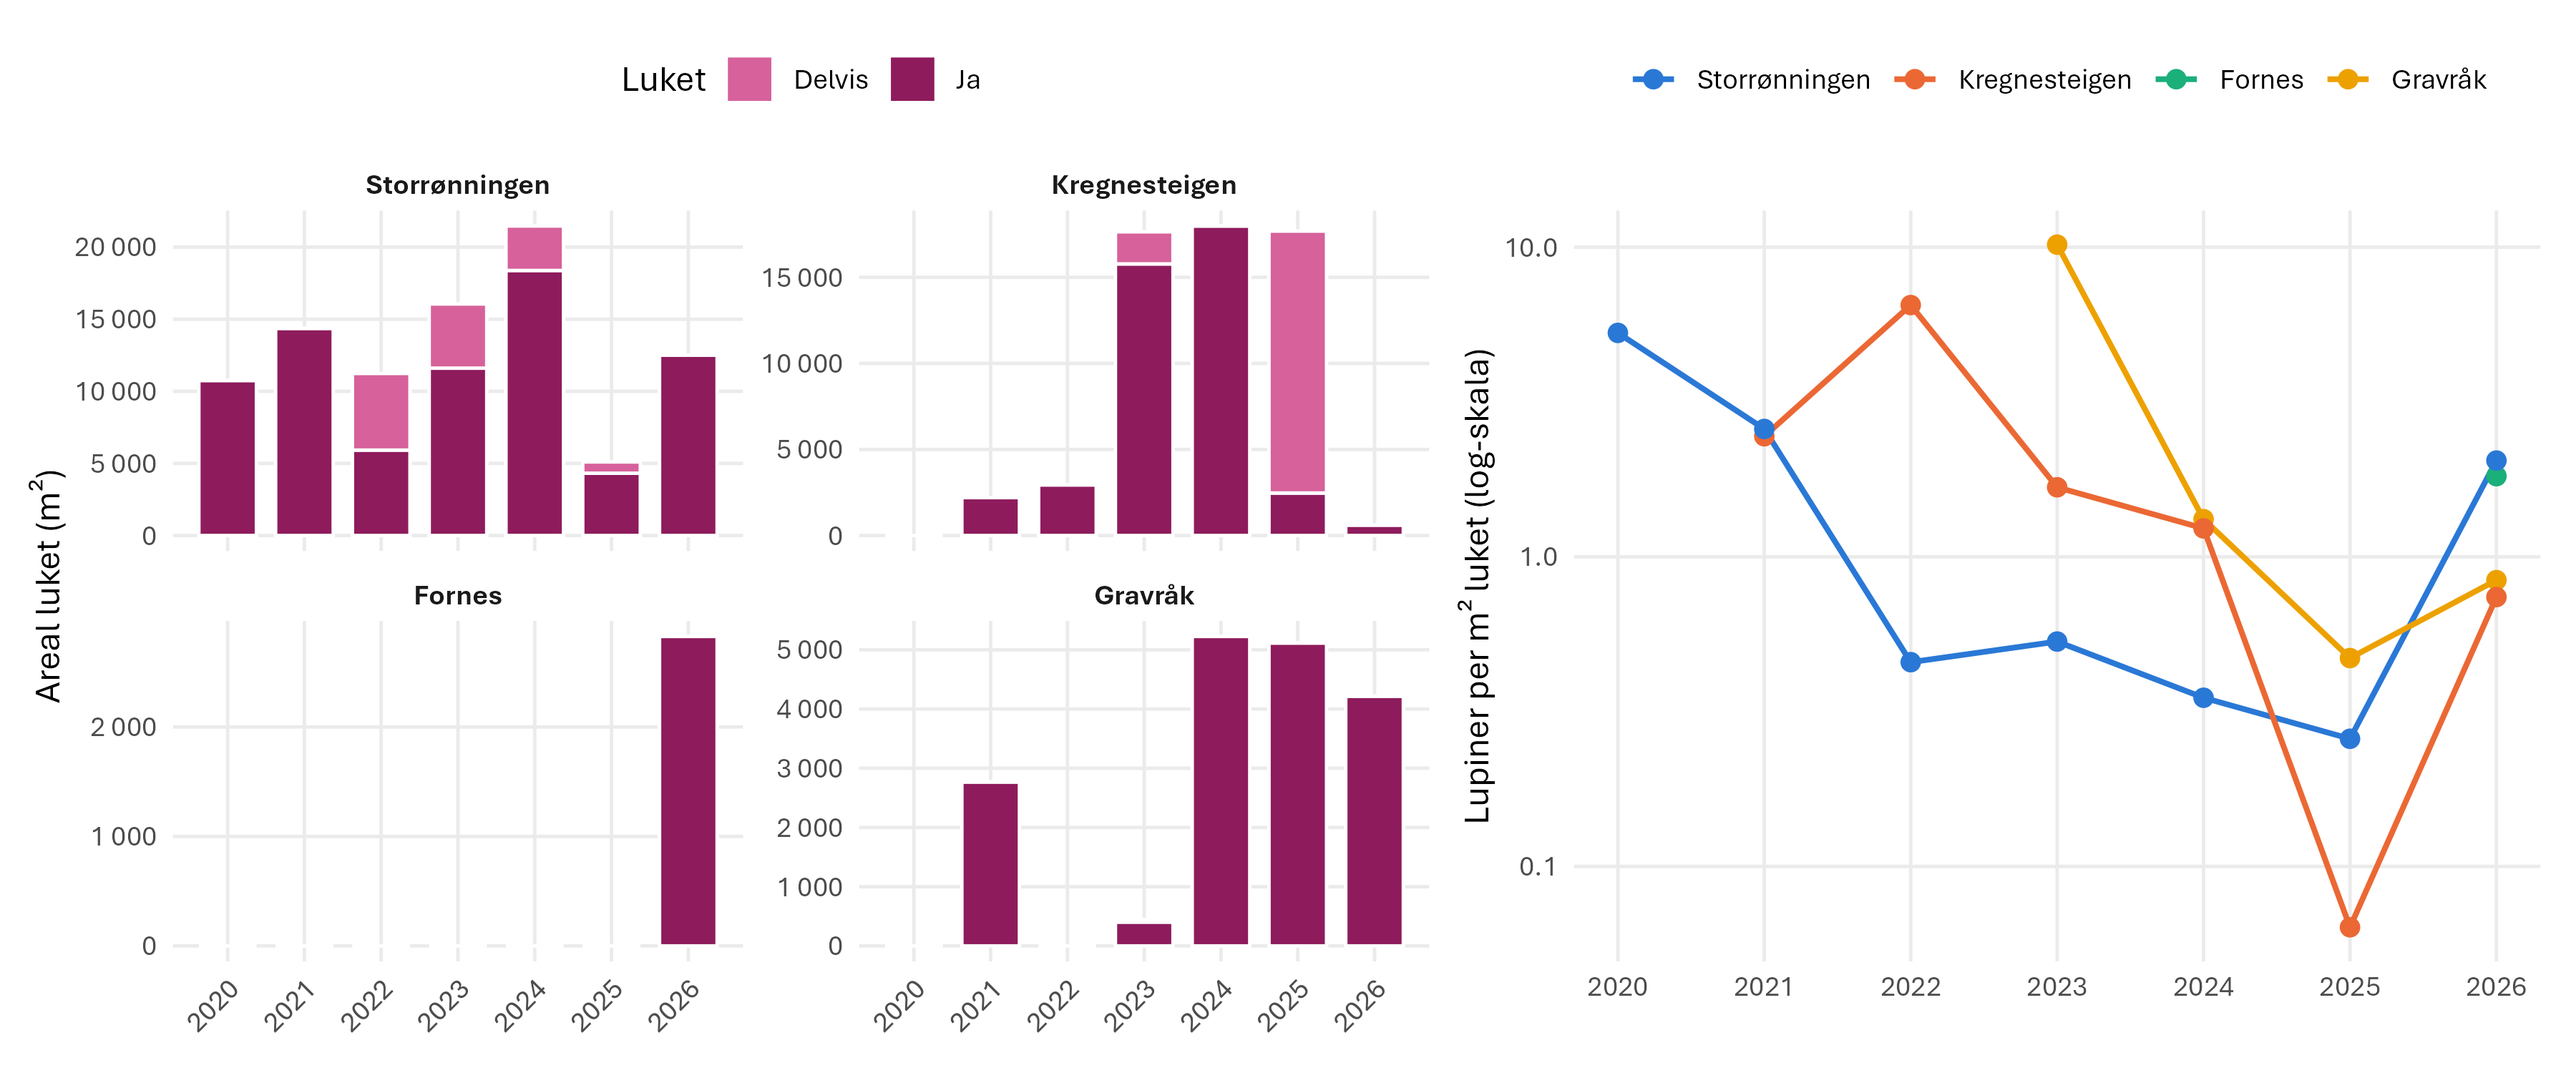
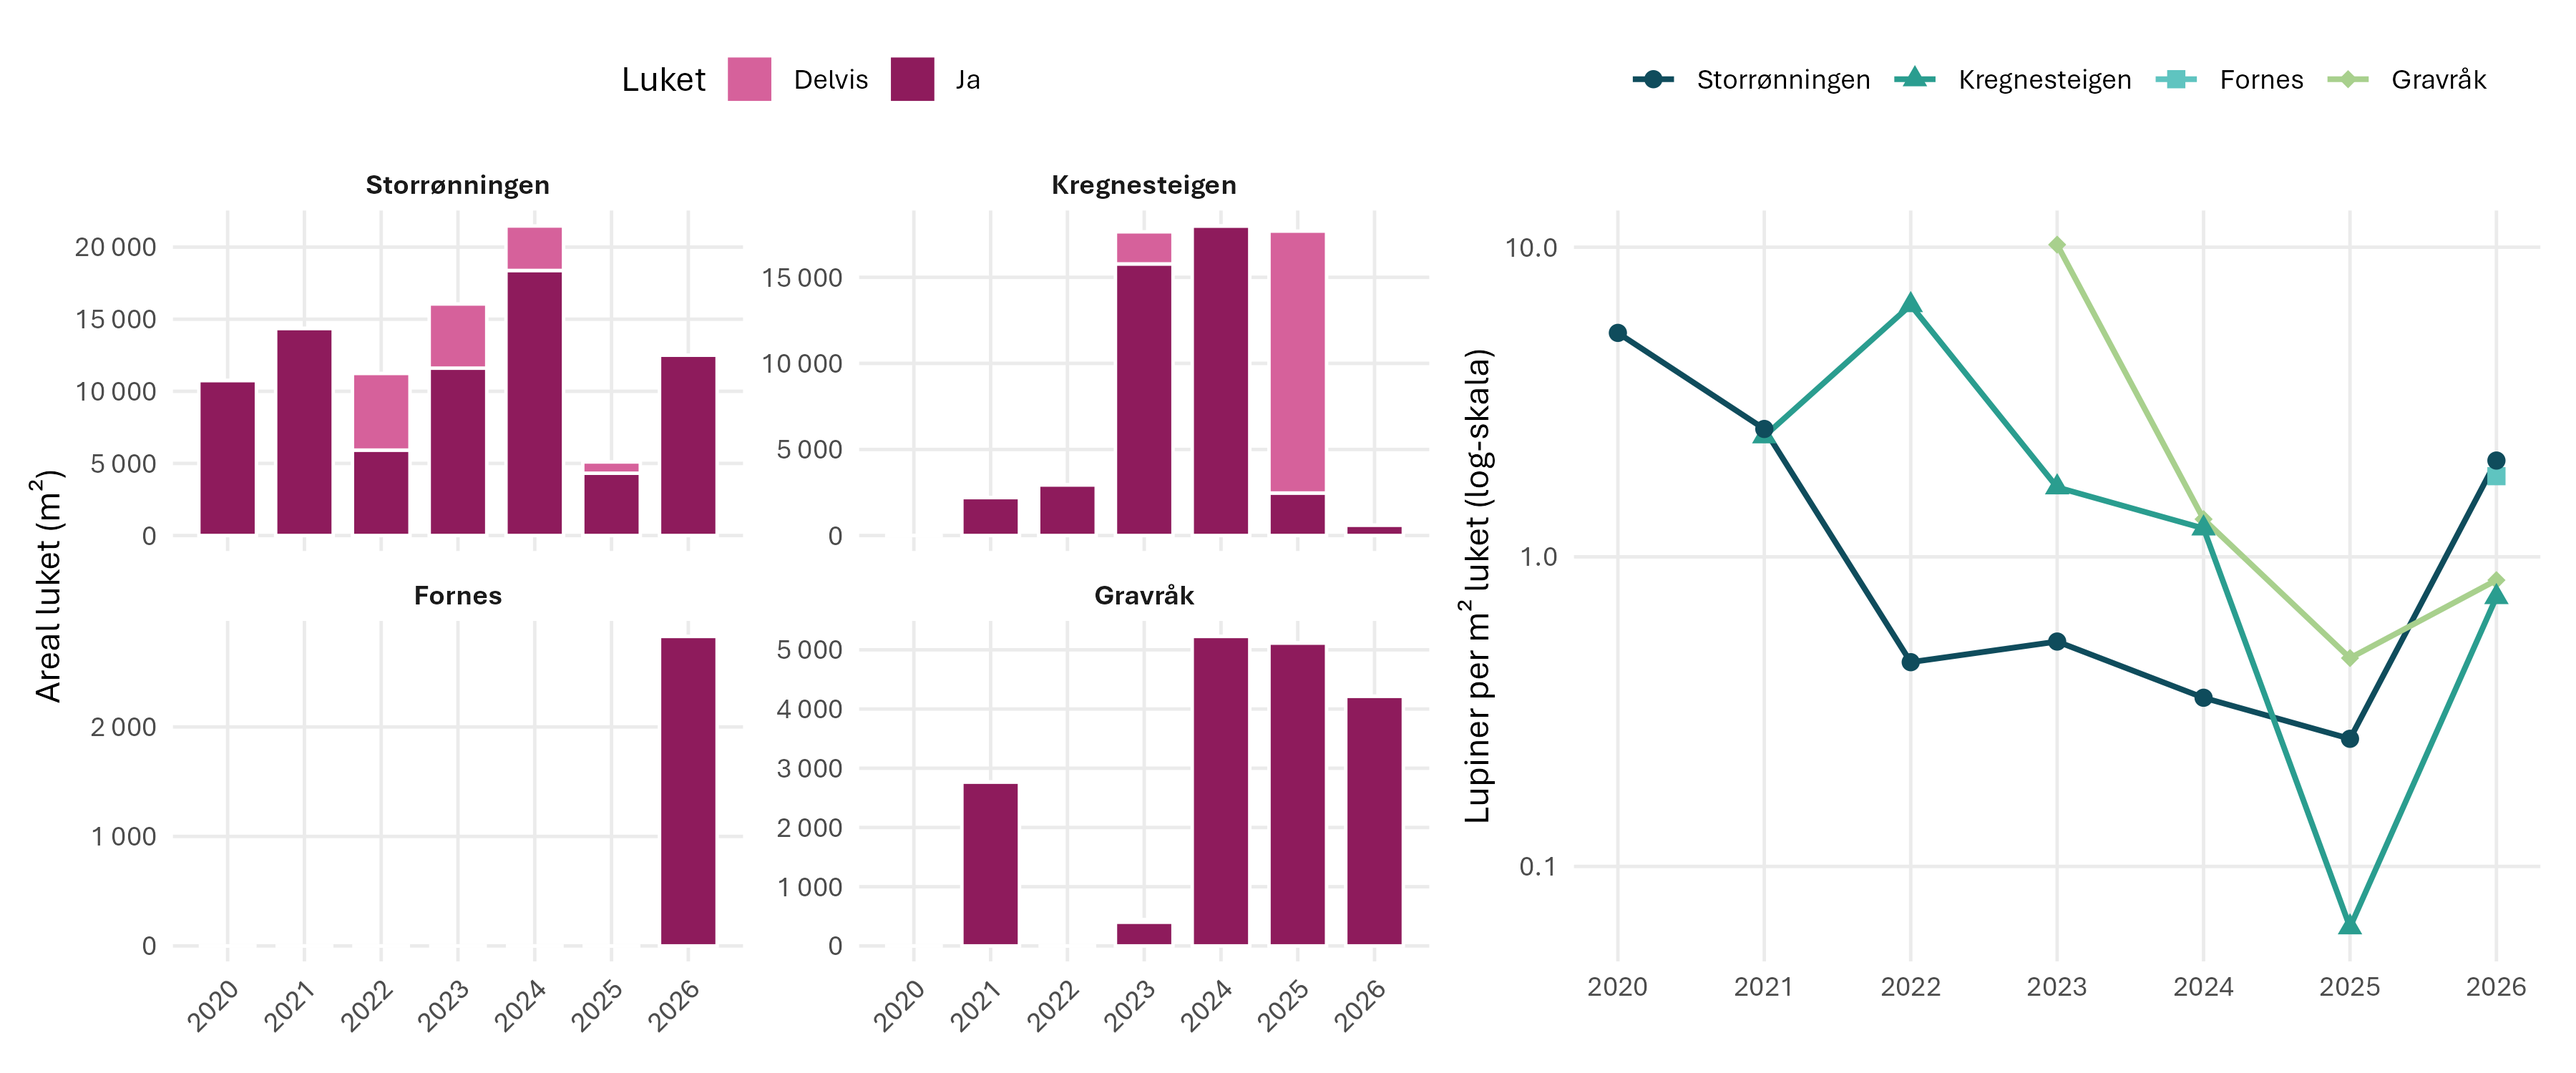
New site colour palette (teal scale and light green) and point shapes in both Elvedyr reports

diff --git a/Stor-elvebreddedderkopp/README.md b/Stor-elvebreddedderkopp/README.md
@@ -1,6 +1,6 @@
 # Stor elvebreddedderkopp (*Arctosa cinerea*)
 Megan Nowell
-2026-11-06
+2026-11-10
 
 - [Oppsummering](#oppsummering)
 - [English summary](#english-summary)
